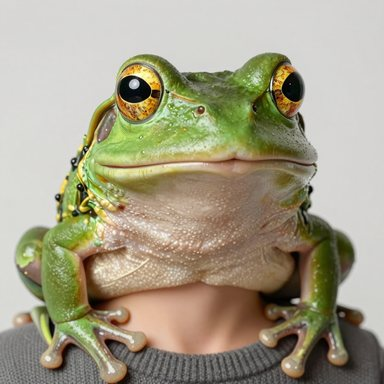
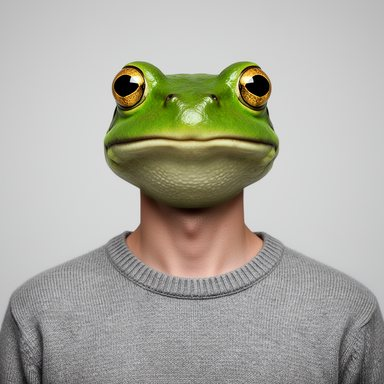
AI Influencer: animal heads replace the human head (FLUX.2), fixed Insect/Frog/Mantis images, Sheet view, favorite + download on tiles, Centaur for animals
Claude-Session: https://claude.ai/code/session_01Pn4hNDRWRVhm438Rr9UBh8

diff --git a/js/influencer.js b/js/influencer.js
@@ -21,16 +21,16 @@
     { id: "normal", label: "Average", human: true },
     { id: "freak", label: "Bold", human: true },
     { id: "total", label: "Extreme", human: true },
-    { id: "insect", label: "Insect", animal: "insect (a realistic praying-mantis style insect head with compound eyes and antennae)" },
-    { id: "frog", label: "Frog", animal: "frog (a realistic frog head)" },
-    { id: "cat", label: "Cat", animal: "cat (a realistic cat head with fur and whiskers)" },
-    { id: "dog", label: "Dog", animal: "dog (a realistic pug-like dog head)" },
-    { id: "rodent", label: "Rodent", animal: "capybara (a realistic capybara head)" },
-    { id: "bird", label: "Bird", animal: "bird (a realistic bird head with a beak and feathers)" }
+    { id: "insect", label: "Insect", animal: "praying mantis", head: "a giant green praying mantis head: triangular insect head with two huge bulging compound eyes, long thin antennae and small mandibles, smooth green exoskeleton" },
+    { id: "frog", label: "Frog", animal: "frog", head: "a realistic green frog head with big round golden eyes, a wide frog mouth and smooth moist green skin" },
+    { id: "cat", label: "Cat", animal: "cat", head: "a realistic cat head with fur, whiskers and pointed ears" },
+    { id: "dog", label: "Dog", animal: "dog", head: "a realistic pug dog head with a wrinkled black muzzle and floppy ears" },
+    { id: "rodent", label: "Rodent", animal: "capybara", head: "a realistic capybara head with coarse brown fur, small round ears and a blunt snout" },
+    { id: "bird", label: "Bird", animal: "bird", head: "a realistic bird head with feathers, round eyes and a curved beak" }
   ];
 
   // Option flags: h = humans only, b = Bold/Extreme/animals only,
-  // x = Extreme only, a = animals only. Third item = prompt wording.
+  // x = Extreme only, X = Extreme or animals, a = animals only. Third item = prompt wording.
   var GROUPS = [
     { id: "gender", label: "Gender", max: 1, options: [
       ["female", "Female", "", "woman"], ["male", "Male", "", "man"],
@@ -40,7 +40,7 @@
       ["slim", "Slim", "", "slim build"], ["athletic", "Athletic", "", "athletic build"],
       ["muscular", "Muscular", "", "muscular build"], ["curvy", "Curvy", "", "curvy figure"],
       ["heavy", "Heavy", "", "heavyset build"], ["ultra", "Ultra Muscular", "", "hugely over-muscled bodybuilder physique"],
-      ["centaur", "Centaur", "x", "centaur body with a horse's lower half"]] },
+      ["centaur", "Centaur", "X", "centaur body with a horse's lower half"]] },
     { id: "hair", label: "Hairstyle", max: 1, options: [
       ["bob", "Bob", "b", "rounded lampshade bob haircut"], ["bald", "Bald", "", "completely bald head"],
       ["buzz", "Buzz cut", "", "buzz cut"], ["bowl", "Bowl cut", "", "bowl cut"], ["mullet", "Mullet", "", "mullet"],
@@ -121,6 +121,7 @@
   var VIEWS = {
     full: { w: 832, h: 1216, lead: "Full-body fashion photo, head to toe, of", tail: "standing straight and facing the camera, whole body in frame including shoes" },
     portrait: { w: 896, h: 1152, lead: "Close-up portrait photo, head and shoulders, of", tail: "looking straight into the camera" },
+    card: { w: 1344, h: 768, white: true, lead: "Two-panel photorealistic character sheet of", tail: "LEFT panel: a tight front-facing close-up portrait with the entire head and hair in frame; RIGHT panel: the exact same character full body, standing straight, arms hanging at the sides, head to toe with shoes visible; both panels front-facing with a blank deadpan expression, identical character and outfit in both panels" },
     sheet: { w: 1344, h: 768, lead: "Character turnaround reference sheet of", tail: "shown four times side by side as the exact same character: front view, three-quarter view, side profile and back view, all full body, identical outfit and features" }
   };
   var ENGINES = { zimage: "Z-Image Turbo", flux2: "FLUX.2", qwen_edit2509: "Qwen Edit 2509" };
@@ -191,6 +192,7 @@
   renderFan();
   syncSeg("viewSeg", "data-view", state.view);
   syncSeg("engineSeg", "data-engine", state.engine);
+  syncEngineNote();
   $("batchVal").textContent = state.batch;
   wireMotion();
   applyLinkParams();
@@ -222,6 +224,7 @@
     if (flags.indexOf("h") > -1 && !human) return false;
     if (flags.indexOf("a") > -1 && human) return false;
     if (flags.indexOf("x") > -1 && t !== "total") return false;
+    if (flags.indexOf("X") > -1 && human && t !== "total") return false;
     if (flags.indexOf("b") > -1 && t === "normal") return false;
     return true;
   }
@@ -269,7 +272,15 @@
       state.traits[gid] = (state.traits[gid] || []).filter(function (oid) { var o = optOf(g, oid); return o && allowed(o[2]); });
       if (!state.traits[gid].length) delete state.traits[gid];
     });
-    buildGroups(); renderPicked();
+    buildGroups(); renderPicked(); syncEngineNote();
+  }
+
+  function syncEngineNote() {
+    var seg = $("engineSeg"); if (!seg) return;
+    var animal = isAnimal();
+    seg.classList.toggle("is-locked", animal);
+    seg.title = animal ? "Animal-head characters always use Best (FLUX.2): it keeps the animal head on a human body." : "";
+    syncSeg("engineSeg", "data-engine", animal ? "flux2" : state.engine);
   }
 
   function toggleOpt(gid, oid) {
@@ -324,7 +335,7 @@
       state.traits[g.id] = out;
     });
     if (state.traits.gender && state.traits.gender[0] === "female") delete state.traits.facialhair;
-    buildGroups(); renderPicked();
+    buildGroups(); renderPicked(); syncEngineNote();
     hint("Random character loaded. Tweak anything, then Generate.");
   }
 
@@ -335,6 +346,7 @@
     $("infName").value = name || "";
     setPane("create");
     buildGroups(); renderPicked();
+    syncEngineNote();
     $("paneCreate").scrollTop = 0;
     if (window.matchMedia("(max-width: 960px)").matches) root.scrollIntoView({ behavior: "smooth" });
     hint("Settings loaded" + (name ? " from " + name : "") + ". Change anything, then Generate.");
@@ -355,7 +367,9 @@
       var vibe = t.id === "freak" ? "a bold, quirky, slightly exaggerated " : t.id === "total" ? "an extreme, surreal, heavily exaggerated caricature of a " : "a realistic ";
       subject = vibe + subject;
     } else {
-      subject = "an anthropomorphic " + who + " character with the head of " + (/^[aeiou]/i.test(t.animal) ? "an " : "a ") + t.animal + " on a human body";
+      // The animal head REPLACES the human head (not an animal sitting on a person).
+      subject = "a surreal photoreal hybrid character: a human " + who + "'s body from the neck down, but instead of a human head it has " + t.head +
+        ", attached directly to the human neck and scaled like a human head; no human face, no human skin or human ears on the head, the " + t.animal + " head is the character's real head";
     }
     parts.push(V.lead + " " + subject + (pickOne("style") ? ", fully clothed in " + pickOne("style") : ", fully clothed in a stylish outfit"));
     var body = [pickOne("height"), pickOne("build")].filter(Boolean).join(", ");
@@ -363,7 +377,12 @@
     if (body || prop.length) parts.push([body, prop.length ? "with " + prop.join(" and ") : ""].filter(Boolean).join(" "));
     if (pickOne("skin")) parts.push(pickOne("skin") + " skin tone");
     var hair = pickOne("hair"), hc = pickOne("haircolor");
-    if (hair) parts.push(state.traits.hair[0] === "bald" ? hair : hair + (hc ? " in " + hc : ""));
+    if (!t.human) {
+      // hair sits ON the animal head, like a wig/hairdo
+      if (hair && state.traits.hair[0] !== "bald") parts.push("hair growing from the top of the " + t.animal + " head: " + hair + (hc ? " in " + hc : ""));
+      else if (hc) parts.push("tuft of " + hc + " hair on top of the " + t.animal + " head");
+    }
+    else if (hair) parts.push(state.traits.hair[0] === "bald" ? hair : hair + (hc ? " in " + hc : ""));
     else if (hc) parts.push(hc + " hair");
     var face = [pickOne("head"), pickOne("neck")].filter(Boolean);
     var eyes = [pickOne("eyeshape"), pickOne("eyecolor")].filter(Boolean).join(" ");
@@ -371,15 +390,16 @@
     if (face.length) parts.push(face.join(", "));
     var shaven = (state.traits.facialhair || [])[0] === "clean";
     var feats = pickAll("features").concat(shaven ? [] : pickAll("facialhair"), pickAll("distinctive"));
-    if (feats.length) parts.push("with " + feats.join(", "));
+    if (feats.length) parts.push((t.human ? "with " : "the " + t.animal + " face has ") + feats.join(", "));
     if (shaven) parts.push("clean-shaven");
     var acc = pickAll("accessories");
     if (acc.length) parts.push("accessorized with " + acc.join(", "));
     var extra = $("infExtra").value.trim();
     if (extra) parts.push(extra);
     parts.push(V.tail);
-    parts.push(t.id === "total" ? "surreal hyper-detailed character design, plain light grey studio backdrop, soft even studio lighting, sharp focus"
-      : "plain light grey studio backdrop, soft even studio lighting, photorealistic, natural skin texture, sharp focus, high detail, editorial fashion photography");
+    var bg = V.white ? "pure white seamless studio background, bright soft even light, faint contact shadow under the feet" : "plain light grey studio backdrop, soft even studio lighting";
+    parts.push(t.id === "total" ? "surreal hyper-detailed but photoreal character design, " + bg + ", sharp focus"
+      : bg + ", photorealistic, natural skin texture, sharp focus, high detail, editorial fashion photography");
     return parts.join(". ").replace(/\s+/g, " ").replace(/\.\./g, ".") + ".";
   }
 
@@ -400,7 +420,7 @@
     if (!token) { hint("Your session expired. Log in again to keep creating.", true); return; }
     var view = state.view, V = VIEWS[view];
     var fromPhoto = !!state.photo;
-    var model = fromPhoto ? "qwen_edit2509" : state.engine;
+    var model = fromPhoto ? "qwen_edit2509" : isAnimal() ? "flux2" : state.engine;
     var prompt = fromPhoto ? buildEditPrompt(view) : buildPrompt(view);
     var name = $("infName").value.trim() || autoName();
 
@@ -481,7 +501,7 @@
   // ------------------------------------------------------------ my influencers
   async function loadMine() {
     if (!client || !state.user) return;
-    var res = await client.from("influencers").select("id, name, tier, traits, view, model, prompt, job_id, from_photo, created_at")
+    var res = await client.from("influencers").select("id, name, tier, traits, view, model, prompt, job_id, from_photo, favorite, created_at")
       .eq("user_id", state.user.id).order("created_at", { ascending: false }).range(state.offset, state.offset + PAGE - 1);
     var rows = res.data || [];
     var ids = rows.map(function (r) { return r.job_id; }).filter(Boolean);
@@ -505,7 +525,7 @@
 
   function renderMine() {
     var wall = $("mineWall");
-    var list = state.mine;
+    var list = state.mine.filter(function (c) { return c.favorite; }).concat(state.mine.filter(function (c) { return !c.favorite; }));
     $("mineCount").textContent = list.length ? String(list.length) : "";
     $("mineEmpty").hidden = !(state.user && !list.length);
     wall.innerHTML = "";
@@ -529,13 +549,19 @@
       img.src = absUrl(url);
       t.appendChild(img);
       t.insertAdjacentHTML("beforeend", '<div class="inf-tile-shade"></div><div class="inf-tile-meta"><strong>' + esc(c.name || "Influencer") + "</strong><span>" + esc(tierOf(c.tier).label) + "</span></div>" +
-        '<div class="inf-tile-acts"><button type="button" class="inf-tomotion" data-act="motion"><svg width="13" height="13" viewBox="0 0 24 24" fill="none" stroke="currentColor" stroke-width="2.2" stroke-linecap="round" stroke-linejoin="round" aria-hidden="true"><rect x="3" y="5" width="13" height="14" rx="2.5"/><path d="m16 10 5-3v10l-5-3"/></svg>Turn to motion</button>' +
-        '<button type="button" class="inf-recreate" data-act="recreate">Recreate</button></div>' +
+        '<div class="inf-tile-acts"><button type="button" class="inf-recreate" data-act="recreate">Recreate</button></div>' +
+        '<div class="inf-tile-side">' +
+          '<button type="button" class="inf-icon-btn inf-fav' + (c.favorite ? " is-on" : "") + '" data-act="fav" title="Favorite" aria-label="Favorite" aria-pressed="' + !!c.favorite + '"><svg width=\"15\" height=\"15\" viewBox=\"0 0 24 24\" fill=\"currentColor\" stroke=\"currentColor\" stroke-width=\"2\" stroke-linejoin=\"round\" aria-hidden=\"true\"><path d=\"M12 20.5s-7.5-4.6-7.5-10.1A4.3 4.3 0 0 1 12 7.6a4.3 4.3 0 0 1 7.5 2.8c0 5.5-7.5 10.1-7.5 10.1z\"/></svg></button>' +
+          '<button type="button" class="inf-icon-btn" data-act="dl" title="Download" aria-label="Download"><svg width=\"15\" height=\"15\" viewBox=\"0 0 24 24\" fill=\"none\" stroke=\"currentColor\" stroke-width=\"2\" stroke-linecap=\"round\" stroke-linejoin=\"round\" aria-hidden=\"true\"><path d=\"M12 3v12m0 0-4-4m4 4 4-4M5 21h14\"/></svg></button>' +
+        '</div>' +
+        '<button type="button" class="inf-tomotion" data-act="motion"><svg width="14" height="14" viewBox="0 0 24 24" fill="none" stroke="currentColor" stroke-width="2.2" stroke-linecap="round" stroke-linejoin="round" aria-hidden="true"><rect x="3" y="5" width="13" height="14" rx="2.5"/><path d="m16 10 5-3v10l-5-3"/></svg>Turn to motion</button>' +
         '<div class="inf-missing-note">Image unavailable while the GPU machine is offline</div>');
       t.tabIndex = 0;
       t.addEventListener("click", function (e) {
         if (e.target.closest("[data-act=recreate]")) { e.stopPropagation(); loadRecipe(c.tier, c.traits, c.name); return; }
         if (e.target.closest("[data-act=motion]")) { e.stopPropagation(); toMotion(c, url); return; }
+        if (e.target.closest("[data-act=fav]")) { e.stopPropagation(); toggleFav(c); return; }
+        if (e.target.closest("[data-act=dl]")) { e.stopPropagation(); downloadImg(absUrl(url), c.name); return; }
         openViewer(c, url);
       });
       t.addEventListener("keydown", function (e) { if (e.key === "Enter") openViewer(c, url); });
@@ -548,6 +574,26 @@
       t.querySelector("[data-act=recreate]").addEventListener("click", function () { loadRecipe(c.tier, c.traits, c.name); });
     }
     return t;
+  }
+
+  async function toggleFav(c) {
+    c.favorite = !c.favorite;
+    renderMine();
+    if (client && realId(c.id)) {
+      var r = await client.from("influencers").update({ favorite: c.favorite }).eq("id", c.id);
+      if (r.error) { c.favorite = !c.favorite; renderMine(); hint("Couldn't save the favorite. Try again.", true); }
+    }
+  }
+
+  async function downloadImg(src, name) {
+    try {
+      var blob = await (await fetch(src)).blob();
+      var a = document.createElement("a");
+      a.href = URL.createObjectURL(blob);
+      a.download = "influencer-" + slug(name || "character") + ".png";
+      document.body.appendChild(a); a.click(); a.remove();
+      setTimeout(function () { URL.revokeObjectURL(a.href); }, 4000);
+    } catch (e) { window.open(src, "_blank", "noopener"); }
   }
 
   function updateCard(c) {
@@ -595,7 +641,7 @@
       syncMotionLinks(); return;
     }
     if (!state.motionPick || !ready.some(function (r) { return r.u === state.motionPick; })) state.motionPick = ready[0].u;
-    if (!state.m.char) { var first = ready.filter(function (r) { return r.u === state.motionPick; })[0] || ready[0]; setChar({ url: first.u, name: first.c.name, infId: realId(first.c.id) }, true); }
+    if (!state.m.char) { var first = ready.filter(function (r) { return r.u === state.motionPick; })[0] || ready[0]; setChar({ url: first.u, name: first.c.name, infId: realId(first.c.id), crop: first.c.view === "card" ? "right" : (first.c.view === "sheet" ? "left" : "") }, true); }
     box.innerHTML = ready.slice(0, 36).map(function (r) {
       var on = !!state.m.char && state.m.char.url === r.u;
       return '<button type="button" class="inf-pick-item' + (on ? " is-on" : "") + '" data-u="' + esc(r.u) + '" data-id="' + esc(r.c.id) + '" title="' + esc(r.c.name || "") + '"><img src="' + esc(absUrl(r.u)) + '" alt="' + esc(r.c.name || "Influencer") + '" loading="lazy" /></button>';
@@ -673,7 +719,7 @@
     $("batchMinus").addEventListener("click", function () { setBatch(state.batch - 1); });
     $("batchPlus").addEventListener("click", function () { setBatch(state.batch + 1); });
     segWire("viewSeg", "data-view", function (v) { state.view = v; savePrefs(); });
-    segWire("engineSeg", "data-engine", function (v) { state.engine = v; savePrefs(); });
+    segWire("engineSeg", "data-engine", function (v) { if (isAnimal()) { syncEngineNote(); hint("Animal-head characters always use Best (FLUX.2)."); return; } state.engine = v; savePrefs(); });
 
     Array.prototype.forEach.call(document.querySelectorAll(".inf-seg button"), function (b) {
       b.addEventListener("click", function () { setPane(b.getAttribute("data-pane")); });
@@ -688,7 +734,7 @@
       if (!b) return;
       state.motionPick = b.getAttribute("data-u");
       var c = state.mine.filter(function (x) { return String(x.id) === b.getAttribute("data-id"); })[0];
-      setChar({ url: state.motionPick, name: c ? c.name : "Influencer", infId: c ? realId(c.id) : null });
+      setChar({ url: state.motionPick, name: c ? c.name : "Influencer", infId: c ? realId(c.id) : null, crop: c && c.view === "card" ? "right" : (c && c.view === "sheet" ? "left" : "") });
       Array.prototype.forEach.call(this.querySelectorAll(".inf-pick-item"), function (x) { x.classList.toggle("is-on", x === b); });
       $("mPicker").hidden = true;
       syncMotionLinks();
@@ -788,7 +834,7 @@
 
   // ------------------------------------------------------------ motion: transfer / swap / style
   function toMotion(c, url) {
-    setChar({ url: url, name: c.name || "Influencer", infId: realId(c.id) });
+    setChar({ url: url, name: c.name || "Influencer", infId: realId(c.id), crop: c.view === "card" ? "right" : (c.view === "sheet" ? "left" : "") });
     state.motionPick = url;
     setPane("motion");
     $("paneMotion").scrollTop = 0;
@@ -802,6 +848,7 @@
     state.m.char = ch;
     var img = $("mCharImg");
     if (ch) { img.src = ch.blob ? ch.url : absUrl(ch.url); img.alt = ch.name || "Character"; }
+    img.style.objectPosition = ch && ch.crop === "right" ? "85% 30%" : ch && ch.crop === "left" ? "8% 30%" : "";
     img.hidden = !ch;
     $("mCharSlot").classList.toggle("has-file", !!ch);
     $("mCharTag").hidden = !ch;
@@ -926,6 +973,7 @@
         if (!cr.ok) throw new Error("Couldn't load that character image from the GPU server.");
         charBlob = await cr.blob();
       }
+      if (m.char.crop) charBlob = await cropPanel(charBlob, m.char.crop);
       var prompt = m.usePrompt ? $("mPrompt").value.trim() : "";
       var fd = new FormData();
       fd.append("image", charBlob, "character.png");
@@ -1205,6 +1253,19 @@
     if (/out of memory|OOM/i.test(e)) return "The GPU ran out of memory. Try 480p or 5 s.";
     if (/Cancelled/i.test(e)) return "Cancelled.";
     return e.length > 140 ? e.slice(0, 140) + "…" : e;
+  }
+
+  // Character sheets hold more than one view; motion needs a single full-body shot.
+  // card (2 panels): right half = full body. turnaround (4 views): first quarter = front view.
+  async function cropPanel(blob, side) {
+    try {
+      var bmp = await createImageBitmap(blob);
+      var w = side === "right" ? Math.round(bmp.width / 2) : Math.round(bmp.width / 4);
+      var x = side === "right" ? bmp.width - w : 0;
+      var cv = document.createElement("canvas"); cv.width = w; cv.height = bmp.height;
+      cv.getContext("2d").drawImage(bmp, x, 0, w, bmp.height, 0, 0, w, bmp.height);
+      return await new Promise(function (res) { cv.toBlob(function (b) { res(b || blob); }, "image/png"); });
+    } catch (e) { return blob; }
   }
 
   function mHint(msg, err) { var h = $("mHint"); h.textContent = msg || ""; h.classList.toggle("is-err", !!err); }

diff --git a/css/influencer.css b/css/influencer.css
@@ -556,3 +556,36 @@
 .inf-vtile:hover .inf-vup, .inf-vtile:focus-within .inf-vup { opacity: 1; }
 .inf-vup:hover { background: var(--color-accent); }
 @media (hover: none) { .inf-vup { opacity: 1; } }
+
+/* Tile actions, Higgsfield-style: Recreate top-left, heart + download on the right, Turn to motion bottom-right */
+.inf-tile-acts { left: 10px; right: auto; }
+.inf-tile-side {
+  position: absolute; top: 10px; right: 10px; z-index: 2;
+  display: flex; flex-direction: column; gap: 6px;
+  opacity: 0; transition: opacity 0.15s ease;
+}
+.inf-icon-btn {
+  width: 34px; height: 34px; display: grid; place-items: center; padding: 0;
+  border: 1px solid rgba(255, 255, 255, 0.18); border-radius: 50%;
+  background: rgba(0, 0, 0, 0.45); backdrop-filter: blur(10px); -webkit-backdrop-filter: blur(10px);
+  color: #fff; cursor: pointer;
+}
+.inf-icon-btn:hover { background: rgba(0, 0, 0, 0.7); }
+.inf-fav svg { fill: none; }
+.inf-fav.is-on { opacity: 1; }
+.inf-fav.is-on svg { fill: #ff4d6d; stroke: #ff4d6d; }
+.inf-tile .inf-tomotion {
+  position: absolute; right: 10px; bottom: 10px; z-index: 2;
+  padding: 8px 14px; font-size: 0.82rem; box-shadow: 0 6px 18px rgba(0, 0, 0, 0.35);
+  opacity: 0; transform: translateY(4px); transition: opacity 0.15s ease, transform 0.15s ease;
+}
+.inf-tile:hover .inf-tile-side, .inf-tile:focus-within .inf-tile-side,
+.inf-tile:hover .inf-tomotion, .inf-tile:focus-within .inf-tomotion { opacity: 1; transform: none; }
+.inf-tile-side:has(.inf-fav.is-on) { opacity: 1; }
+.inf-tile-side:has(.inf-fav.is-on) [data-act=dl] { opacity: 0; }
+.inf-tile:hover .inf-tile-side [data-act=dl] { opacity: 1; }
+@media (hover: none) {
+  .inf-tile-side, .inf-tile .inf-tomotion, .inf-tile-acts { opacity: 1; transform: none; }
+  .inf-tile .inf-tomotion { padding: 6px 10px; font-size: 0.72rem; }
+}
+.inf-seg-sm.is-locked button:not(.is-on) { opacity: 0.4; cursor: not-allowed; }
